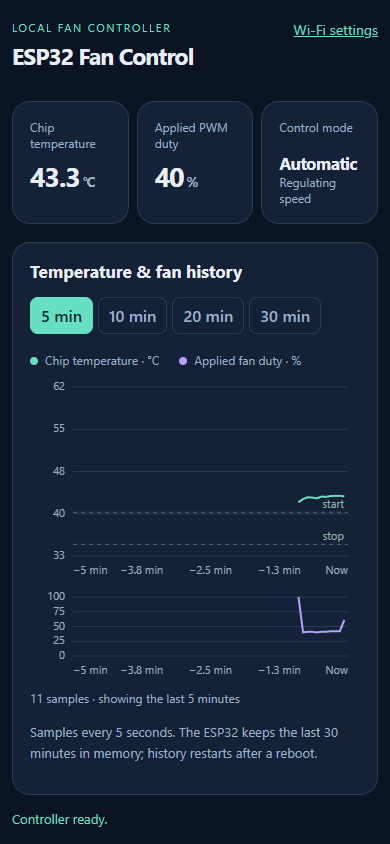
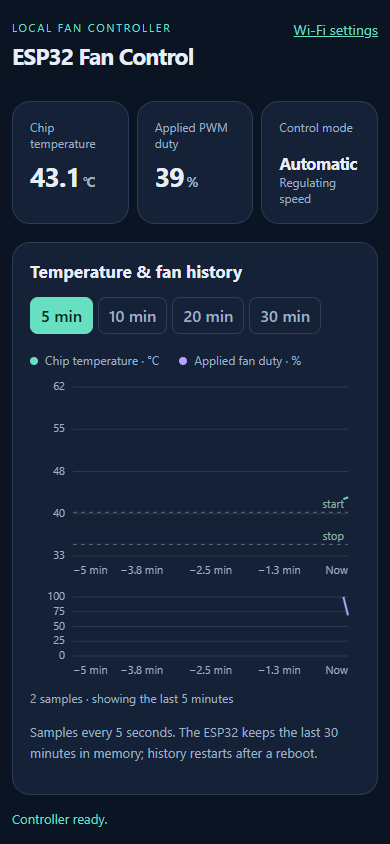
Stabilize curve fan duty with configurable temperature deadband

diff --git a/include/web_page.h b/include/web_page.h
@@ -12,7 +12,7 @@ const char page[] PROGMEM = R"HTML(<!doctype html>
 <div id="message" role="status" aria-live="polite">Connecting to controller…</div>
 <div class="controls"><section class="card"><label class="switchline" for="auto"><span>Automatic mode <span id="auto-label">OFF</span></span><input type="checkbox" role="switch" id="auto" disabled></label><p id="auto-help">Manual mode uses the speed below.</p><label class="caption" for="mode-select">Control mode</label><select id="mode-select" disabled><option value="manual">Manual</option><option value="threshold">Automatic</option><option value="curve">Curve</option></select><form id="fan"><label class="caption" for="percent">Manual PWM duty</label><output class="manualvalue" id="value" for="percent">50%</output><input id="percent" type="range" min="20" max="100" step="1" value="50" disabled><button class="wide" id="apply" disabled>Apply manual speed</button></form><button type="button" class="stop" id="off" disabled>Turn fan off</button><p id="fault-note"></p></section>
 <section class="card"><h2>Threshold &amp; sensor settings</h2><form id="settings"><div class="fields"><label class="field">Start fan at · °C<input type="number" id="start_c" name="start_c" step="0.5" min="-19.5" max="119.5" required></label><label class="field">Stop fan at · °C<input type="number" id="stop_c" name="stop_c" step="0.5" min="-20" max="119" required></label><label class="field">Full speed at · °C<input type="number" id="full_c" name="full_c" step="0.5" min="-19" max="120" required></label><label class="field">Temperature offset · °C<input type="number" id="offset_c" name="offset_c" step="0.1" min="-20" max="20" required></label><label class="field">Minimum running duty · %<input type="number" id="min_percent" name="min_percent" step="1" min="20" max="100" required></label><label class="field">Maximum running duty · %<input type="number" id="max_percent" name="max_percent" step="1" min="20" max="100" required></label></div><div class="savebar"><button type="button" id="defaults" class="subtle">Use defaults</button><button id="save" disabled>Save settings</button></div></form><p>Start/stop and running-duty limits apply to Automatic mode. Curve mode uses its own points.</p><p>Stop &lt; start &lt; full-speed temperature. Speed increases between start and full speed. Below the stop threshold the fan turns off. A stopped fan waits for the start threshold.</p><p>These thresholds use the chip's experimental internal reading, which includes self-heating. The offset adjusts this reading; it does not calibrate room temperature.</p></section></div>
-<section id="curve-card" class="card curve-card" hidden><h2>Temperature / fan curve</h2><p>Set 2–10 points in increasing temperature order. Duty must stay level or increase. Between points, speed is interpolated; beyond the ends, the nearest point is used. Use 0% to stop the fan, or 20–100% while running.</p><div class="legend curve-legend"><span>Fan curve</span><span class="live">Current temperature / applied fan</span><span class="fan">Target during startup</span></div><canvas id="curve-chart" role="img" aria-label="Fan curve with live chip temperature and fan duty operating point"></canvas><div id="curve-live-state" class="plotnote" role="status">Waiting for the live operating point…</div><div class="curve-row caption"><span>Temperature · °C</span><span>Fan duty · %</span><span></span></div><div id="curve-points"></div><div class="curve-options"><button id="curve-add" class="subtle" type="button">Add point</button><label class="field" for="curve-hysteresis">Restart hysteresis · °C<input type="number" id="curve-hysteresis" required min="0" max="10" step="0.5" value="1"></label><button id="curve-save" type="button">Save curve</button></div><p>Hysteresis delays restarting above the last 0% point, reducing repeated starts near that temperature. Curve and mode are saved to flash. Changes take effect after saving.</p></section>
+<section id="curve-card" class="card curve-card" hidden><h2>Temperature / fan curve</h2><p>Set 2–10 points in increasing temperature order. Duty must stay level or increase. Between points, speed is interpolated; beyond the ends, the nearest point is used. Use 0% to stop the fan, or 20–100% while running.</p><div class="legend curve-legend"><span>Fan curve</span><span class="live">Current temperature / applied fan</span><span class="fan">Target during startup</span></div><canvas id="curve-chart" role="img" aria-label="Fan curve with live chip temperature and fan duty operating point"></canvas><div id="curve-live-state" class="plotnote" role="status">Waiting for the live operating point…</div><div class="curve-row caption"><span>Temperature · °C</span><span>Fan duty · %</span><span></span></div><div id="curve-points"></div><div class="curve-options"><button id="curve-add" class="subtle" type="button">Add point</button><label class="field" for="curve-hysteresis">Restart hysteresis · °C<input type="number" id="curve-hysteresis" required min="0" max="10" step="0.5" value="1"></label><label class="field" for="curve-deadband">Speed-change deadband · °C<input type="number" id="curve-deadband" required min="0" max="10" step="0.5" value="2"></label><button id="curve-save" type="button">Save curve</button></div><p>Restart hysteresis reduces repeated starts near the last 0% point. Speed-change deadband holds the running duty until temperature moves more than the selected amount from the last accepted reading. Zero disables it. Stopping, the top curve point, and sensor failsafe apply immediately. Curve and mode are saved to flash. Changes take effect after saving.</p></section>
 <div class="footer"><span id="pin">PWM output --</span><span id="wifi">Wi-Fi --</span><span id="saved">Settings --</span><span>Duty is not measured RPM.</span></div>
 </main><script>
 'use strict';
@@ -28,7 +28,7 @@ async function write(path,body,onSuccess){writing=true;setEnabled(true);try{cons
 function curveRows(){return Array.from($('curve-points').children).map(row=>({temperature_c:Number(row.querySelector('[data-temperature]').value),percent:Number(row.querySelector('[data-duty]').value)}))}
 function updateCurveButtons(){const rows=$('curve-points').children;for(const row of rows)row.querySelector('button').disabled=rows.length<=2;$('curve-add').disabled=writing||rows.length>=10}
 function appendCurveRow(point){const row=document.createElement('div');row.className='curve-row';const t=document.createElement('input');t.type='number';t.required=true;t.min='-20';t.max='120';t.step='0.5';t.value=point.temperature_c;t.dataset.temperature='';t.setAttribute('aria-label','Curve point temperature in Celsius');const duty=document.createElement('input');duty.type='number';duty.required=true;duty.min='0';duty.max='100';duty.step='1';duty.value=point.percent;duty.dataset.duty='';duty.setAttribute('aria-label','Curve point fan duty in percent');const remove=document.createElement('button');remove.type='button';remove.className='subtle';remove.textContent='Remove';remove.onclick=()=>{row.remove();curveDirty=true;updateCurveButtons();drawCurve()};for(const input of [t,duty])input.oninput=()=>{curveDirty=true;drawCurve()};row.append(t,duty,remove);$('curve-points').append(row)}
-function renderCurveState(c){$('curve-card').hidden=c.strategy!=='curve';const signature=JSON.stringify([c.curve_points,c.curve_hysteresis_c]);if(!curveDirty&&signature!==curveSignature){curveSignature=signature;$('curve-points').replaceChildren();for(const point of c.curve_points)appendCurveRow(point);$('curve-hysteresis').value=c.curve_hysteresis_c;updateCurveButtons()}if(!$('curve-card').hidden)drawCurve()}
+function renderCurveState(c){$('curve-card').hidden=c.strategy!=='curve';const signature=JSON.stringify([c.curve_points,c.curve_hysteresis_c,c.curve_deadband_c]);if(!curveDirty&&signature!==curveSignature){curveSignature=signature;$('curve-points').replaceChildren();for(const point of c.curve_points)appendCurveRow(point);$('curve-hysteresis').value=c.curve_hysteresis_c;$('curve-deadband').value=c.curve_deadband_c;updateCurveButtons()}if(!$('curve-card').hidden)drawCurve()}
 function drawCurve(){
 if($('curve-card').hidden)return;
 const canvas=$('curve-chart'),box=canvas.getBoundingClientRect(),scale=window.devicePixelRatio||1;
@@ -50,13 +50,13 @@ ctx.fillStyle='#ffc36c';ctx.strokeStyle='#fff1d7';ctx.lineWidth=2;ctx.beginPath(
 const label=temperature.toFixed(1)+' °C / '+latest.applied_percent+'%',labelWidth=ctx.measureText(label).width+12,labelX=Math.max(left,Math.min(xx+10,box.width-16-labelWidth)),labelY=yy>top+26?yy-27:yy+10;
 ctx.fillStyle='#382b19';ctx.fillRect(labelX,labelY,labelWidth,20);ctx.fillStyle='#ffe0ae';ctx.textAlign='left';ctx.textBaseline='middle';ctx.fillText(label,labelX+6,labelY+10);
 canvas.dataset.temperature=String(temperature);canvas.dataset.percent=String(latest.applied_percent);
-$('curve-live-state').textContent=temperature.toFixed(1)+' °C · Applied fan '+latest.applied_percent+'% · Target '+latest.target_percent+'%'+(latest.failsafe?' · Sensor failsafe':latest.startup?' · Startup boost':!latest.control.auto_enabled?' · Manual mode':'')+(curveDirty?' · Unsaved curve preview; fan uses saved points.':'');
+$('curve-live-state').textContent=temperature.toFixed(1)+' °C · Applied fan '+latest.applied_percent+'% · Target '+latest.target_percent+'%'+(latest.failsafe?' · Sensor failsafe':latest.startup?' · Startup boost':!latest.control.auto_enabled?' · Manual mode':'')+(latest.curve_holding?' · Speed held within '+latest.control.curve_deadband_c+' °C deadband':'')+(curveDirty?' · Unsaved curve preview; fan uses saved points.':'');
 }else{delete canvas.dataset.temperature;delete canvas.dataset.percent;$('curve-live-state').textContent='No usable chip-temperature reading. '+(latest?'Applied fan '+latest.applied_percent+'%.':'')}
 }
 $('mode-select').onchange=async e=>{const mode=e.currentTarget.value;await write('/api/control',mode==='manual'?{auto_enabled:'0'}:{auto_enabled:'1',strategy:mode},()=>notify('Control mode saved: '+mode+'.'))};
-$('curve-hysteresis').oninput=()=>{curveDirty=true};
+$('curve-hysteresis').oninput=()=>{curveDirty=true};$('curve-deadband').oninput=()=>{curveDirty=true};
 $('curve-add').onclick=()=>{const points=curveRows();if(points.length>=10)return;const last=points[points.length-1];if(last.temperature_c<120)appendCurveRow({temperature_c:Math.min(120,last.temperature_c+5),percent:last.percent});else{let at=1;for(let i=2;i<points.length;i++)if(points[i].temperature_c-points[i-1].temperature_c>points[at].temperature_c-points[at-1].temperature_c)at=i;if(points[at].temperature_c-points[at-1].temperature_c<1){notify('No room for another point; widen a temperature interval first.',true);return}const point={temperature_c:Math.round((points[at].temperature_c+points[at-1].temperature_c)),percent:points[at-1].percent};point.temperature_c/=2;appendCurveRow(point);$('curve-points').insertBefore($('curve-points').lastElementChild,$('curve-points').children[at])}curveDirty=true;updateCurveButtons();drawCurve()};
-$('curve-save').onclick=async()=>{const inputs=[...$('curve-points').querySelectorAll('input'),$('curve-hysteresis')];if(inputs.some(input=>!input.reportValidity()))return;const curve=curveRows().map(p=>p.temperature_c+':'+p.percent).join(',');await write('/api/control',{strategy:'curve',curve,curve_hysteresis_c:$('curve-hysteresis').value},()=>{curveDirty=false;notify('Curve saved to ESP32 flash.')})};
+$('curve-save').onclick=async()=>{const inputs=[...$('curve-points').querySelectorAll('input'),$('curve-hysteresis'),$('curve-deadband')];if(inputs.some(input=>!input.reportValidity()))return;const curve=curveRows().map(p=>p.temperature_c+':'+p.percent).join(',');await write('/api/control',{strategy:'curve',curve,curve_hysteresis_c:$('curve-hysteresis').value,curve_deadband_c:$('curve-deadband').value},()=>{curveDirty=false;notify('Curve saved to ESP32 flash.')})};
 slider.oninput=()=>{manualDirty=true;$('value').textContent=slider.value+'%'};
 $('fan').onsubmit=async e=>{e.preventDefault();await write('/api/fan',{percent:slider.value},s=>{manualDirty=false;notify('Manual speed saved: '+s.control.manual_percent+'%.')})};
 $('off').onclick=async()=>{await write('/api/fan/off',{},()=>{manualDirty=false;notify('Fan stopped. Manual mode selected; off state saved to flash.')})};

diff --git a/src/main.cpp b/src/main.cpp
@@ -32,6 +32,7 @@ bool wifiSaved = false;
 bool networkChangePending = false;
 uint32_t networkChangeAt = 0;
 ControlConfig control;
+CurveState curveState;
 bool controlSaved = false;
 bool autoRunning = false;
 bool temperatureValid = false;
@@ -113,7 +114,7 @@ ControlConfig defaultControlConfig() {
 bool saveControl(const ControlConfig &candidate) {
     Preferences preferences;
     if (!preferences.begin("fan-control", false)) return false;
-    const bool ok = preferences.putBytes("control-v2", &candidate, sizeof(candidate)) == sizeof(candidate);
+    const bool ok = preferences.putBytes("control-v3", &candidate, sizeof(candidate)) == sizeof(candidate);
     preferences.end();
     return ok;
 }
@@ -128,8 +129,13 @@ void loadControl() {
     Preferences preferences;
     if (preferences.begin("fan-control", false)) {
         bool loaded = false;
-        if (preferences.isKey("control-v2") && preferences.getBytesLength("control-v2") == sizeof(candidate))
-            loaded = preferences.getBytes("control-v2", &candidate, sizeof(candidate)) == sizeof(candidate);
+        if (preferences.isKey("control-v3") && preferences.getBytesLength("control-v3") == sizeof(candidate))
+            loaded = preferences.getBytes("control-v3", &candidate, sizeof(candidate)) == sizeof(candidate);
+        else if (preferences.isKey("control-v2") && preferences.getBytesLength("control-v2") == offsetof(ControlConfig, curveDeadbandC)) {
+            // v2 has the identical prefix; retain the new field's 2 C default.
+            const size_t legacySize = offsetof(ControlConfig, curveDeadbandC);
+            loaded = preferences.getBytes("control-v2", &candidate, legacySize) == legacySize;
+        }
         else if (preferences.isKey("control-v1") && preferences.getBytesLength("control-v1") == sizeof(legacy)
             && preferences.getBytes("control-v1", &legacy, sizeof(legacy)) == sizeof(legacy)) {
             candidate.stopC = legacy.stopC; candidate.startC = legacy.startC;
@@ -159,7 +165,8 @@ void applyDuty(unsigned percent) {
 
 void updateControl() {
     const bool fresh = temperatureValid && temperatureSampled && millis() - lastTemperatureAt <= TEMPERATURE_STALE_MS;
-    const auto decision = decideFan(control, currentTemperature(), fresh, autoRunning, FAN_MAX_PERCENT, FAN_MIN_PERCENT);
+    const auto requested = decideFan(control, currentTemperature(), fresh, autoRunning, FAN_MAX_PERCENT, FAN_MIN_PERCENT);
+    const auto decision = stabilizeCurve(control, currentTemperature(), autoRunning, requested, curveState);
     targetPercent = decision.percent;
     autoRunning = decision.running;
     sensorFailsafe = decision.failsafe;
@@ -179,6 +186,7 @@ bool changeControl(const ControlConfig &candidate) {
     if (!validControl(candidate, FAN_MIN_PERCENT, FAN_MAX_PERCENT) || !saveControl(candidate)) return false;
     if (candidate.autoEnabled != control.autoEnabled || candidate.curveMode != control.curveMode) autoRunning = false;
     control = candidate;
+    curveState = CurveState{};
     controlSaved = true;
     updateControl();
     return true;
@@ -303,6 +311,8 @@ void sendStatus() {
     json += ",\"temperature_valid\":" + String(temperatureValid ? "true" : "false");
     json += ",\"temperature_age_ms\":" + (temperatureSampled ? String(millis() - lastTemperatureAt) : String("null"));
     json += ",\"uptime_s\":" + String(uptimeSeconds());
+    json += ",\"curve_holding\":" + String(curveState.holding ? "true" : "false");
+    json += ",\"curve_reference_c\":" + (std::isfinite(curveState.referenceC) ? String(curveState.referenceC, 2) : String("null"));
     json += ",\"auto_running\":" + String(autoRunning ? "true" : "false");
     json += ",\"failsafe\":" + String(sensorFailsafe ? "true" : "false");
     json += ",\"control\":{\"auto_enabled\":" + String(control.autoEnabled ? "true" : "false");
@@ -314,6 +324,7 @@ void sendStatus() {
     json += ",\"max_percent\":" + String(control.maxPercent);
     json += ",\"manual_percent\":" + String(control.manualPercent);
     json += ",\"strategy\":\"" + String(control.curveMode ? "curve" : "threshold") + "\"";
+    json += ",\"curve_deadband_c\":" + String(control.curveDeadbandC, 2);
     json += ",\"curve_hysteresis_c\":" + String(control.curveHysteresisC, 2);
     json += ",\"curve_max_points\":" + String(MAX_CURVE_POINTS);
     json += ",\"curve_points\":[";
@@ -349,7 +360,7 @@ bool parseCurve(const String &text, ControlConfig &candidate) {
 }
 
 void handleControl() {
-    if (server.args() < 1 || server.args() > 10) {
+    if (server.args() < 1 || server.args() > 11) {
         server.send(400, "text/plain", "Supply at least one control setting.");
         return;
     }
@@ -366,6 +377,7 @@ void handleControl() {
             if (value != "threshold" && value != "curve") valid = false;
             else candidate.curveMode = value == "curve";
         } else if (name == "curve") valid = parseCurve(value, candidate) && valid;
+        else if (name == "curve_deadband_c") valid = parseNumber(value, candidate.curveDeadbandC) && valid;
         else if (name == "curve_hysteresis_c") valid = parseNumber(value, candidate.curveHysteresisC) && valid;
         else if (name == "stop_c") valid = parseNumber(value, candidate.stopC) && valid;
         else if (name == "start_c") valid = parseNumber(value, candidate.startC) && valid;
@@ -376,7 +388,7 @@ void handleControl() {
         else valid = false;
     }
     if (!valid || !validControl(candidate, FAN_MIN_PERCENT, FAN_MAX_PERCENT)) {
-        server.send(400, "text/plain", "Require -20 <= stop < start < full <= 120 C (at least 0.5 C apart), valid duty limits, and offset -20..20 C. Curve: 2..10 points, increasing temperatures at least 0.5 C apart, nondecreasing duties of 0 or 20..100%, with a nonzero final point; curve hysteresis 0..10 C. Unknown or duplicate fields are rejected.");
+        server.send(400, "text/plain", "Require -20 <= stop < start < full <= 120 C (at least 0.5 C apart), valid duty limits, and offset -20..20 C. Curve: 2..10 points, increasing temperatures at least 0.5 C apart, nondecreasing duties of 0 or 20..100%, with a nonzero final point; curve restart hysteresis and speed deadband 0..10 C. Unknown or duplicate fields are rejected.");
         return;
     }
     if (!changeControl(candidate)) {

diff --git a/tests/test_control.cpp b/tests/test_control.cpp
@@ -2,6 +2,7 @@
 #include <cassert>
 #include <cstdio>
 #include <limits>
+#include <initializer_list>
 
 int main() {
     ControlConfig c;
@@ -68,6 +69,50 @@ int main() {
     assert(validControl(c, 20, 100));
     d = decideFan(c, 100, true, true, 100); assert(d.percent == 0 && !d.running && !d.failsafe);
     d = decideFan(c, NAN, false, true, 100); assert(d.percent == 0 && !d.failsafe);
+    // Speed changes use an anchored temperature band, not the previous sample.
+    c = ControlConfig{}; c.autoEnabled = 1; c.curveMode = 1;
+    CurveState state;
+    bool running = false;
+    auto sample = [&](float temperature, bool valid = true) {
+        auto result = stabilizeCurve(c, temperature, running,
+            decideFan(c, temperature, valid, running, 100), state);
+        running = result.running;
+        return result;
+    };
+    d = sample(45); assert(d.percent == 48 && state.referenceC == 45);
+    for (float t : {46.0f, 44.0f, 47.0f, 43.0f, 46.5f, 44.5f}) {
+        d = sample(t); assert(d.percent == 48 && state.referenceC == 45 && state.holding);
+    }
+    d = sample(47.1f); assert(d.percent == 55 && state.referenceC == 47.1f && !state.holding);
+    d = sample(48); assert(d.percent == 55 && state.holding);
+    d = sample(49); assert(d.percent == 55);
+    d = sample(49.2f); assert(d.percent == 62 && !state.holding);
+    d = sample(47); assert(d.percent == 55 && !state.holding);
+    // Stop, restart, top endpoint and sensor faults bypass the speed band.
+    c.curveDeadbandC = 10;
+    d = sample(35); assert(d.percent == 0 && !running && !state.holding);
+    d = sample(35.5f); assert(d.percent == 0);
+    d = sample(36); assert(d.percent == 20 && running);
+    d = sample(35); assert(d.percent == 0 && !running);
+    d = sample(36); assert(d.percent == 20 && running);
+    state = CurveState{};
+    d = sample(59); assert(d.percent == 97);
+    d = sample(60); assert(d.percent == 100 && !state.holding);
+    d = sample(59); assert(d.percent == 100 && state.holding);
+    d = sample(NAN, false); assert(d.percent == 100 && d.failsafe && std::isnan(state.referenceC));
+    d = sample(45); assert(d.percent == 48 && !state.holding);
+    c.curveDeadbandC = 0;
+    d = sample(46); assert(d.percent == 51 && !state.holding);
+    c.curveMode = 0;
+    d = sample(46); assert(d.percent == 51 && std::isnan(state.referenceC));
+    c.autoEnabled = 0; c.manualPercent = 0;
+    d = sample(46); assert(d.percent == 0 && !state.holding);
+    for (float invalid : {-1.0f, 10.1f, std::numeric_limits<float>::quiet_NaN(), std::numeric_limits<float>::infinity()}) {
+        bad = ControlConfig{}; bad.curveDeadbandC = invalid;
+        assert(!validControl(bad, 20, 100));
+    }
+    bad = ControlConfig{}; bad.curveDeadbandC = 0; assert(validControl(bad, 20, 100));
+    bad.curveDeadbandC = 10; assert(validControl(bad, 20, 100));
     TemperatureHistory<3> history;
     assert(history.size() == 0);
     history.add(0, 40, 20); history.add(5, 41, 30); history.add(10, NAN, 100);

diff --git a/tests/test_device.py b/tests/test_device.py
@@ -50,7 +50,7 @@ try:
     print('Temperature and all four history windows OK', flush=True)
     before = status()['control']
     for body in ['', 'unknown=1', 'auto_enabled=2', 'auto_enabled=1&auto_enabled=0',
-                 'start_c=nan', 'start_c=inf', 'start_c=bad', 'offset_c=21',
+                 'curve_deadband_c=-1', 'curve_deadband_c=11', 'curve_deadband_c=nan', 'start_c=nan', 'start_c=inf', 'start_c=bad', 'offset_c=21',
                  'min_percent=20.5', 'min_percent=256', 'max_percent=101',
                  'stop_c=40&start_c=40', 'full_c=30', 'min_percent=70&max_percent=60']:
         assert request('/api/control', body)[0] == 400, body
@@ -81,9 +81,16 @@ try:
     print('High-temperature full-duty response OK', flush=True)
     t = status()['temperature_c']
     curve = f'{round(t-10,1)}:0,{round(t,1)}:60,{round(t+10,1)}:100'
-    s = configure(strategy='curve', curve=curve, curve_hysteresis_c=1)
+    s = configure(strategy='curve', curve=curve, curve_hysteresis_c=1, curve_deadband_c=2.5)
     assert s['control']['strategy'] == 'curve' and len(s['control']['curve_points']) == 3
     assert 50 <= s['target_percent'] <= 70
+    assert s['control']['curve_deadband_c'] == 2.5
+    assert isinstance(s['curve_reference_c'], (float, int))
+    reference, duty = s['curve_reference_c'], s['target_percent']
+    time.sleep(3.2)
+    held = status()
+    if abs(held['temperature_c'] - reference) < 2.4:
+        assert held['target_percent'] == duty and held['curve_reference_c'] == reference
     before = s['control']
     for bad_curve in ['35:0', '35:0,35:100', '40:30,35:100', '35:50,40:30',
                       '35:0,40:10', '35:0,40:101', '35:0,40:100,', 'bad',
@@ -108,6 +115,7 @@ finally:
     restored['auto_enabled'] = int(original['auto_enabled'])
     restored['strategy'] = original['strategy']
     restored['curve_hysteresis_c'] = original['curve_hysteresis_c']
+    restored['curve_deadband_c'] = original['curve_deadband_c']
     restored['curve'] = ','.join(f"{p['temperature_c']}:{p['percent']}" for p in original['curve_points'])
     configure(**restored)
     print('Original user control settings restored', flush=True)

diff --git a/include/control_logic.h b/include/control_logic.h
@@ -19,9 +19,11 @@ struct ControlConfig {
     uint8_t curveMode = 0;
     uint8_t curveCount = 4;
     CurvePoint curvePoints[MAX_CURVE_POINTS] = {{35, 0}, {40, 30}, {50, 65}, {60, 100}};
+    float curveDeadbandC = 2.0f;
 };
 
 inline bool validControl(const ControlConfig &c, unsigned minimum, unsigned maximum) {
+    if (!std::isfinite(c.curveDeadbandC) || c.curveDeadbandC < 0 || c.curveDeadbandC > 10) return false;
     if (c.curveMode > 1 || c.curveCount < 2 || c.curveCount > MAX_CURVE_POINTS
         || !std::isfinite(c.curveHysteresisC) || c.curveHysteresisC < 0 || c.curveHysteresisC > 10) return false;
     for (size_t i = 0; i < c.curveCount; ++i) {
@@ -76,6 +78,31 @@ inline FanDecision decideFan(const ControlConfig &c, float temperatureC, bool va
     if (ratio > 1) ratio = 1;
     const unsigned duty = static_cast<unsigned>(std::lround(c.minPercent + ratio * (c.maxPercent - c.minPercent)));
     return {duty, true, false};
+}
+
+struct CurveState {
+    float referenceC = NAN;
+    unsigned percent = 0;
+    bool holding = false;
+};
+
+inline FanDecision stabilizeCurve(const ControlConfig &c, float temperatureC, bool wasRunning, FanDecision desired, CurveState &state) {
+    if (!c.autoEnabled || !c.curveMode || desired.failsafe || !std::isfinite(temperatureC)) {
+        state = CurveState{};
+        return desired;
+    }
+    const bool topPoint = temperatureC >= c.curvePoints[c.curveCount - 1].temperatureC;
+    const bool insideBand = std::isfinite(state.referenceC)
+        && std::fabs(temperatureC - state.referenceC) <= c.curveDeadbandC + 0.0001f;
+    if (wasRunning && desired.running && c.curveDeadbandC > 0 && insideBand && !topPoint) {
+        state.holding = desired.percent != state.percent;
+        desired.percent = state.percent;
+    } else {
+        state.referenceC = temperatureC;
+        state.percent = desired.percent;
+        state.holding = false;
+    }
+    return desired;
 }
 
 struct HistorySample { uint32_t seconds; float temperatureC; uint8_t percent; };
